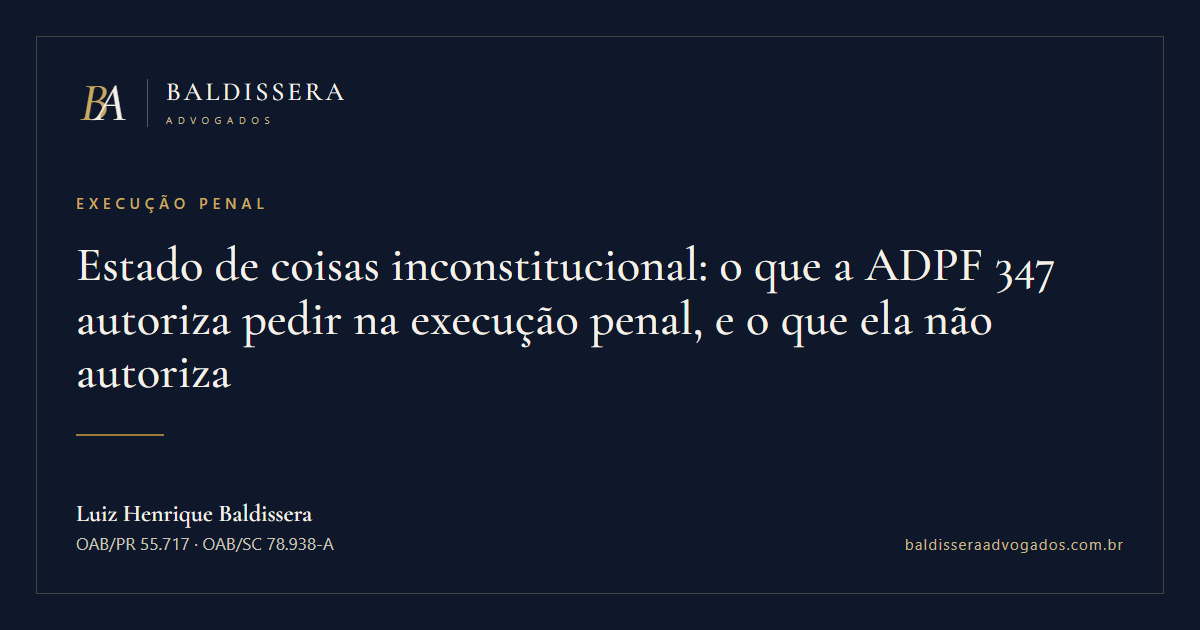
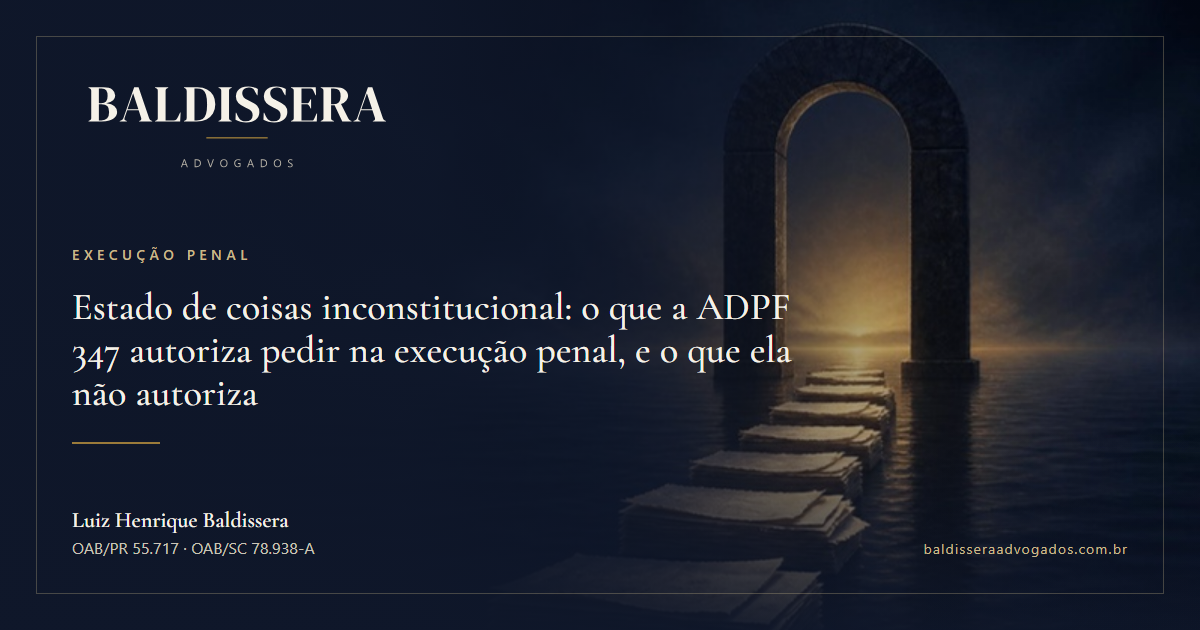
Publicações com ilustração: capa com a marca vetorial e imagem de abertura (ADPF 347)
Publicador ganha os campos imagem/imagem_alt: converte o PNG do diretor de arte
em JPG leve (assets/images/publicacoes), põe a figura abaixo da linha de autoria
e usa a mesma ilustração como fundo das três capas (capa.py v2, véu marinho +
logo oficial em assets/images/marca). Sem ilustração, a capa segue tipográfica.
Primeira publicação com o padrão: ADPF 347 na execução penal.

diff --git a/site_baldissera_advogados/site_baldissera/public/assets/css/style.css b/site_baldissera_advogados/site_baldissera/public/assets/css/style.css
@@ -557,3 +557,23 @@ a { color: inherit; text-decoration: none; }
   .page-hero.hero-split .hero-fig { max-width: 420px; }
   .page-hero.hero-split .hero-fig img { aspect-ratio: 16 / 10; object-position: 70% center; }
 }
+
+/* ============================================
+   IMAGEM DE ABERTURA DA PUBLICAÇÃO (.pub-fig)
+   Gerada pelo diretor de arte; entra abaixo da
+   linha de autoria do hero · 27/09/2026
+   ============================================ */
+.pub-fig { margin: 34px 0 0; }
+.pub-fig img {
+  display: block;
+  width: 100%;
+  height: auto;
+  aspect-ratio: 16 / 9;
+  object-fit: cover;
+  border-radius: 8px;
+  border: 0.5px solid var(--border-medium);
+}
+@media (max-width: 768px) {
+  .pub-fig { margin-top: 24px; }
+  .pub-fig img { aspect-ratio: 16 / 10; object-position: 60% center; }
+}

diff --git a/site_baldissera_advogados/site_baldissera/public/publicacao-adpf-347-na-execucao-penal.html b/site_baldissera_advogados/site_baldissera/public/publicacao-adpf-347-na-execucao-penal.html
@@ -83,6 +83,7 @@
 <span style="color:var(--gold-light);">·</span>
 <span style="font-size:11px;letter-spacing:.04em;color:var(--text-light);">leitura: 4 min</span>
 </div>
+<figure class="pub-fig"><img src="assets/images/publicacoes/publicacao-adpf-347-na-execucao-penal.jpg" alt="Arco de pedra escura sobre água noturna, com luz dourada ao fundo e um caminho de folhas de papel que o atravessa." width="1600" height="900" fetchpriority="high" decoding="async"></figure>
 </div>
 </section>
 

diff --git a/site_baldissera_advogados/site_baldissera/tools/publicador/capa.py b/site_baldissera_advogados/site_baldissera/tools/publicador/capa.py
@@ -1,13 +1,21 @@
 """Capa de publicação com a marca Baldissera Advogados.
 
-Gera, para cada publicação, uma imagem PNG no padrão da casa (marinho, monograma BA,
-título em Cormorant, fio dourado) em três formatos:
+Gera, para cada publicação, uma imagem PNG no padrão da casa em três formatos:
   og       1200x630  — prévia de link (WhatsApp, LinkedIn, Google)
   quadrado 1080x1080 — post de feed
   vertical 1080x1350 — post vertical (Instagram)
 
+Desde 27/09/2026 a capa tem dois modos:
+  * COM ILUSTRAÇÃO (p["_imagem_fonte"] aponta para o PNG gerado pelo diretor de arte):
+    a ilustração ocupa o fundo; sobre ela, um véu marinho recebe a marca vetorial
+    oficial, a área, o título e o rodapé com autor e site.
+  * SEM ILUSTRAÇÃO: layout tipográfico anterior (marinho, marca, título, fio dourado).
+
+A marca vem de public/assets/images/marca/baldissera-advogados-escuro.svg (vetor oficial,
+versão para fundo escuro); se o arquivo faltar, cai no monograma em CSS.
+
 Uso:
-  python capa.py <publicacao.json> [--formatos og,quadrado,vertical] [--saida DIR]
+  python capa.py <publicacao.json> [--formatos og,quadrado,vertical] [--saida DIR] [--imagem ARQ.png]
 Sem --saida grava em public/assets/images/capas/<slug>-<formato>.png
 """
 import argparse, html, json, re, subprocess, sys, tempfile, unicodedata
@@ -15,10 +23,13 @@ from pathlib import Path
 
 AQUI = Path(__file__).resolve().parent
 sys.path.insert(0, str(AQUI))
-import publicar as P  # reaproveita autores, slug e datas
+import publicar as P  # reaproveita autores, slug, datas e a localização da ilustração
 
 EDGE = r"C:\Program Files (x86)\Microsoft\Edge\Application\msedge.exe"
 FORMATOS = {"og": (1200, 630), "quadrado": (1080, 1080), "vertical": (1080, 1350)}
+MARCA_SVG = P.PUB / "assets" / "images" / "marca" / "baldissera-advogados-escuro.svg"
+
+NAVY, GOLD, GOLD_CLARO, IVORY = "#0F172A", "#9B7B3A", "#C9B98A", "#F5F1E8"
 
 
 def nfc(t: str) -> str:
@@ -26,46 +37,98 @@ def nfc(t: str) -> str:
     return unicodedata.normalize("NFC", t or "")
 
 
+def marca_html(largura: int) -> str:
+    """Marca oficial em SVG embutido; sem o arquivo, monograma BA em CSS."""
+    if MARCA_SVG.exists():
+        svg = MARCA_SVG.read_text(encoding="utf-8")
+        svg = re.sub(r"<\?xml[^>]*\?>", "", svg).strip()
+        return f'<div class="marca" style="width:{largura}px">{svg}</div>'
+    return (f'<div class="marca marca-css"><div class="cap"><span class="b">B</span><span class="a">A</span></div>'
+            f'<div class="nome"><p>BALDISSERA</p><span>ADVOGADOS</span></div></div>')
+
+
+def tamanho_titulo(n: int, base: int) -> int:
+    return base if n <= 70 else base - 6 if n <= 100 else base - 12 if n <= 130 else base - 18
+
+
 def html_capa(p: dict, w: int, h: int) -> str:
     a = p["_autor"]
     titulo = html.escape(nfc(P.plano(p["titulo"])))
-    # título grande, reduzido conforme o comprimento e o formato
-    n = len(titulo)
-    base = 64 if w == 1200 else 78
-    tam = base if n <= 70 else base - 8 if n <= 100 else base - 16 if n <= 130 else base - 22
+    area = html.escape(nfc(p["area"]))
+    autor = html.escape(a["nome"]); oab = html.escape(a["oab_card"])
+    og = w == 1200
     vertical = h > w
-    return f"""<!DOCTYPE html><html lang="pt-br"><head><meta charset="utf-8">
-<link href="https://fonts.googleapis.com/css2?family=Cormorant+Garamond:ital,wght@0,500;0,600;1,500&display=block" rel="stylesheet">
-<style>
+    imagem = p.get("_imagem_fonte")
+    margem = 36 if og else 48
+    respiro = 72 if og else 92
+
+    base_css = f"""
 *{{box-sizing:border-box;margin:0;padding:0}}
 html,body{{width:{w}px;height:{h}px;overflow:hidden}}
-body{{background:#0F172A;color:#F5F1E8;font-family:-apple-system,'Segoe UI',Roboto,sans-serif;position:relative}}
-.moldura{{position:absolute;inset:{36 if w == 1200 else 48}px;border:1px solid rgba(201,185,138,.28)}}
-.conteudo{{position:absolute;inset:{76 if w == 1200 else 96}px;display:flex;flex-direction:column;justify-content:space-between}}
-.marca{{display:flex;align-items:center;gap:18px}}
+body{{background:{NAVY};color:{IVORY};font-family:-apple-system,'Segoe UI',Roboto,sans-serif;position:relative}}
+.moldura{{position:absolute;inset:{margem}px;border:1px solid rgba(201,185,138,.30);z-index:3}}
+.conteudo{{position:absolute;inset:{respiro}px;display:flex;flex-direction:column;justify-content:space-between;z-index:4}}
+.marca svg{{display:block;width:100%;height:auto}}
+.marca-css{{display:flex;align-items:center;gap:18px}}
 .cap{{font-family:'Cormorant Garamond',Georgia,serif;font-style:italic;font-weight:500;font-size:54px;line-height:1;letter-spacing:-.08em;display:flex}}
-.cap .b{{color:#C9A962;transform:translateX(4px)}} .cap .a{{color:#F5F1E8;transform:translateX(-6px)}}
+.cap .b{{color:{GOLD_CLARO};transform:translateX(4px)}} .cap .a{{color:{IVORY};transform:translateX(-6px)}}
 .nome{{border-left:1px solid rgba(245,241,232,.3);padding-left:18px}}
 .nome p{{font-family:'Cormorant Garamond',Georgia,serif;font-weight:500;font-size:26px;letter-spacing:.12em;line-height:1}}
-.nome span{{display:block;font-size:10px;letter-spacing:.55em;margin-top:8px;color:#C9B98A}}
+.nome span{{display:block;font-size:10px;letter-spacing:.55em;margin-top:8px;color:{GOLD_CLARO}}}
+.area{{font-size:{14 if og else 15}px;letter-spacing:.32em;text-transform:uppercase;color:{GOLD_CLARO};font-weight:600;margin-bottom:{22 if og else 26}px}}
+h1{{font-family:'Cormorant Garamond',Georgia,serif;font-weight:500;line-height:1.12;letter-spacing:.003em;color:{IVORY}}}
+.fio{{width:88px;height:2px;background:{GOLD};margin-top:{28 if og else 34}px}}
+.pe{{display:flex;justify-content:space-between;align-items:flex-end;font-size:{16 if og else 17}px;color:#C9C5B8}}
+.pe b{{font-family:'Cormorant Garamond',Georgia,serif;font-weight:600;font-size:{22 if og else 24}px;color:{IVORY};display:block;margin-bottom:4px}}
+.site{{font-size:{14 if og else 15}px;letter-spacing:.08em;color:{GOLD_CLARO}}}
+"""
+
+    if imagem:
+        # ---------- modo com ilustração ----------
+        foto = Path(imagem).resolve().as_uri()
+        if og:
+            # ilustração inteira ao fundo; véu marinho forte à esquerda, onde ficam marca e título
+            layout_css = f"""
+.foto{{position:absolute;inset:0;background:url("{foto}") center right/cover no-repeat;z-index:1}}
+.veu{{position:absolute;inset:0;z-index:2;background:
+  linear-gradient(90deg, rgba(15,23,42,.97) 0%, rgba(15,23,42,.94) 34%, rgba(15,23,42,.66) 56%, rgba(15,23,42,.22) 78%, rgba(15,23,42,.08) 100%),
+  linear-gradient(0deg, rgba(15,23,42,.88) 0%, rgba(15,23,42,0) 32%)}}
+.meio{{flex:1;display:flex;flex-direction:column;justify-content:center;padding:14px 0;max-width:{int(w * 0.60)}px}}
+h1{{font-size:{tamanho_titulo(len(titulo), 50)}px}}
+"""
+        else:
+            # ilustração no alto (≈56 %), texto embaixo sobre véu que sobe
+            alto = int(h * (0.50 if vertical else 0.54))
+            layout_css = f"""
+.foto{{position:absolute;left:0;right:0;top:0;height:{alto + 140}px;background:url("{foto}") center/cover no-repeat;z-index:1}}
+.veu{{position:absolute;inset:0;z-index:2;background:
+  linear-gradient(180deg, rgba(15,23,42,.72) 0%, rgba(15,23,42,.10) 22%, rgba(15,23,42,0) 38%, rgba(15,23,42,.55) {int((alto - 40) / h * 100)}%, rgba(15,23,42,.985) {int((alto + 120) / h * 100)}%, {NAVY} 100%)}}
+.meio{{flex:1;display:flex;flex-direction:column;justify-content:flex-end;padding:{alto - respiro + 20}px 0 {36 if vertical else 30}px}}
+h1{{font-size:{tamanho_titulo(len(titulo), 62 if vertical else 58)}px;max-width:{w - 2 * respiro}px}}
+"""
+        camadas = '<div class="foto"></div><div class="veu"></div>'
+    else:
+        # ---------- modo tipográfico (sem ilustração) ----------
+        layout_css = f"""
 .meio{{flex:1;display:flex;flex-direction:column;justify-content:center;padding:{'40px 0' if vertical else '10px 0'}}}
-.area{{font-size:15px;letter-spacing:.32em;text-transform:uppercase;color:#C9A962;font-weight:600;margin-bottom:26px}}
-h1{{font-family:'Cormorant Garamond',Georgia,serif;font-weight:500;font-size:{tam}px;line-height:1.12;letter-spacing:.003em;max-width:{w - 200}px}}
-.fio{{width:88px;height:2px;background:#9B7B3A;margin-top:34px}}
-.pe{{display:flex;justify-content:space-between;align-items:flex-end;font-size:17px;color:#C9C5B8}}
-.pe b{{font-family:'Cormorant Garamond',Georgia,serif;font-weight:600;font-size:24px;color:#F5F1E8;display:block;margin-bottom:4px}}
-.site{{font-size:15px;letter-spacing:.08em;color:#C9B98A}}
-</style></head><body>
+h1{{font-size:{tamanho_titulo(len(titulo), 64 if og else 78) + (0 if og else 4)}px;max-width:{w - 200}px}}
+"""
+        camadas = ""
+
+    largura_marca = 330 if og else 380
+    return f"""<!DOCTYPE html><html lang="pt-br"><head><meta charset="utf-8">
+<link href="https://fonts.googleapis.com/css2?family=Cormorant+Garamond:ital,wght@0,500;0,600;1,500&display=block" rel="stylesheet">
+<style>{base_css}{layout_css}</style></head><body>
+{camadas}
 <div class="moldura"></div>
 <div class="conteudo">
-  <div class="marca"><div class="cap"><span class="b">B</span><span class="a">A</span></div>
-    <div class="nome"><p>BALDISSERA</p><span>ADVOGADOS</span></div></div>
+  {marca_html(largura_marca)}
   <div class="meio">
-    <p class="area">{html.escape(nfc(p['area']))}</p>
+    <p class="area">{area}</p>
     <h1>{titulo}</h1>
     <div class="fio"></div>
   </div>
-  <div class="pe"><div><b>{html.escape(a['nome'])}</b>{html.escape(a['oab_card'])}</div>
+  <div class="pe"><div><b>{autor}</b>{oab}</div>
     <div class="site">baldisseraadvogados.com.br</div></div>
 </div>
 </body></html>"""
@@ -80,8 +143,8 @@ def gerar(p: dict, formatos, saida: Path) -> list:
             src = Path(tmp) / f"{f}.html"
             src.write_text(html_capa(p, w, h), encoding="utf-8")
             out = saida / f"{p['_slug']}-{f}.png"
-            subprocess.run([EDGE, "--headless=new", "--disable-gpu", "--hide-scrollbars",
-                            f"--user-data-dir={Path(tmp) / 'perfil'}", "--virtual-time-budget=6000",
+            subprocess.run([EDGE, "--headless=new", "--disable-gpu", "--hide-scrollbars", "--allow-file-access-from-files",
+                            f"--user-data-dir={Path(tmp) / 'perfil'}", "--virtual-time-budget=8000",
                             f"--window-size={w},{h}", f"--screenshot={out}", src.as_uri()],
                            capture_output=True, timeout=120)
             if not out.exists():
@@ -96,6 +159,7 @@ def main():
     ap.add_argument("--formatos", default="og,quadrado,vertical")
     ap.add_argument("--saida")
     ap.add_argument("--slug", help="endereço já publicado (sem .html), para não gerar um novo")
+    ap.add_argument("--imagem", help="PNG da ilustração (sobrepõe o campo 'imagem' do JSON)")
     a = ap.parse_args()
     p = json.loads(Path(a.json).read_text(encoding="utf-8"))
     if isinstance(p.get("data"), dict) and "pub" in p["data"]:
@@ -104,9 +168,12 @@ def main():
         p = p["pub"]
     if a.slug:
         p["slug"], p["sobrescrever"] = a.slug, True
+    if a.imagem:
+        p["imagem"] = a.imagem
     p = P.preparar(p)
     saida = Path(a.saida) if a.saida else P.PUB / "assets" / "images" / "capas"
-    print(json.dumps({"ok": True, "capas": gerar(p, a.formatos.split(","), saida)}, ensure_ascii=False))
+    print(json.dumps({"ok": True, "ilustracao": str(p.get("_imagem_fonte") or ""),
+                      "capas": gerar(p, a.formatos.split(","), saida)}, ensure_ascii=False))
 
 
 if __name__ == "__main__":

diff --git a/site_baldissera_advogados/site_baldissera/tools/publicador/publicar.py b/site_baldissera_advogados/site_baldissera/tools/publicador/publicar.py
@@ -26,6 +26,12 @@ PUB = SITE / "public"
 REPO = SITE.parents[1]
 BASE = "https://www.baldisseraadvogados.com.br"
 MARCADOR = "<!-- NOVAS-PUBLICACOES"
+# Ilustrações geradas pelo diretor de arte (agente baldissera-diretor-arte) ficam FORA do git,
+# na pasta do painel; o publicador as copia (em JPG leve) para o site na hora de gerar.
+IMAGENS_DIR = Path(r"C:\Users\LuizH\OneDrive\Área de Trabalho\SITE BALDISSERA ADVOGADOS\PAINEL-PUBLICACAO\IMAGENS")
+IMAGENS_SITE = PUB / "assets" / "images" / "publicacoes"
+IMAGEM_LARGURA = 1600
+ALT_PADRAO = "Ilustração editorial da publicação"
 
 MESES = ["Janeiro", "Fevereiro", "Março", "Abril", "Maio", "Junho", "Julho", "Agosto",
          "Setembro", "Outubro", "Novembro", "Dezembro"]
@@ -87,12 +93,36 @@ def verificar(p: dict) -> list:
             erros.append(f"bloco {i + 1}: tipo inválido '{b.get('tipo')}'")
         elif not (b.get("texto") or "").strip():
             erros.append(f"bloco {i + 1}: sem texto")
+    if p.get("imagem") and p["imagem"] is not True and localizar_imagem(p["imagem"]) is None:
+        erros.append(f"ilustração não encontrada: {p['imagem']} (procurei em {IMAGENS_DIR})")
     txt = json.dumps(p, ensure_ascii=False)
     if "{{" in txt:
         erros.append("sobrou marcador {{...}} no texto")
     if re.search(r"<\s*(script|iframe|style)", txt, re.I):
         erros.append("o texto contém código de página (script, iframe ou style); por segurança nada foi publicado")
     return erros
+
+
+def localizar_imagem(ref) -> "Path | None":
+    """Acha o PNG da ilustração: caminho completo, nome na pasta IMAGENS (com ou sem .png)."""
+    if not ref or ref is True:
+        return None
+    for cand in (Path(str(ref)), IMAGENS_DIR / str(ref), IMAGENS_DIR / f"{ref}.png"):
+        if cand.is_file():
+            return cand
+    return None
+
+
+def converter_imagem(fonte: Path, destino: Path) -> Path:
+    """PNG grande do Canva -> JPG leve (1600 px, nitidez leve), no padrão das imagens do site."""
+    from PIL import Image, ImageFilter
+    im = Image.open(fonte).convert("RGB")
+    if im.width > IMAGEM_LARGURA:
+        im = im.resize((IMAGEM_LARGURA, round(im.height * IMAGEM_LARGURA / im.width)), Image.LANCZOS)
+    im = im.filter(ImageFilter.UnsharpMask(radius=1.6, percent=110, threshold=2))
+    destino.parent.mkdir(parents=True, exist_ok=True)
+    im.save(destino, "JPEG", quality=84, optimize=True, progressive=True)
+    return destino
 
 
 def preparar(p: dict) -> dict:
@@ -111,6 +141,15 @@ def preparar(p: dict) -> dict:
     palavras = sum(len(plano(b.get("texto", "")).split()) + len(plano(b.get("titulo", "")).split()) for b in p["corpo"])
     p["_leitura"] = max(1, round(palavras / 250))
     p["_autor"] = AUTORES[p["autor"]]
+    # ilustração: campo "imagem" (caminho ou nome) ou, automaticamente, IMAGENS\<slug>.png;
+    # "imagem": false desliga.
+    if p.get("imagem") is False:
+        fonte = None
+    else:
+        fonte = localizar_imagem(p.get("imagem")) or localizar_imagem(f"{slug}.png")
+    p["_imagem_fonte"] = fonte
+    p["_imagem_web"] = f"assets/images/publicacoes/{slug}.jpg" if fonte else None
+    p["_imagem_alt"] = plano(p.get("imagem_alt") or "") or ALT_PADRAO
     return p
 
 
@@ -164,6 +203,8 @@ def pagina(p: dict) -> str:
 </section>
 """
     bio = f'<p style="font-size:13px;line-height:1.7;color:var(--text-muted);margin:0 0 12px;">{html.escape(a["bio"])}</p>\n' if a["bio"] else ""
+    figura = (f'\n<figure class="pub-fig"><img src="{p["_imagem_web"]}" alt="{attr(p["_imagem_alt"])}" width="1600" height="900" fetchpriority="high" decoding="async"></figure>'
+              if p.get("_imagem_web") else "")
     wa_txt = f"{plano(p['titulo'])}\n\n{plano(p['resumo'])}\n\nAnálise completa:\n{url}\n\n— Baldissera Advogados\nWhatsApp do escritório: https://wa.me/5545991029806"
     desc = attr(p["resumo"])[:300]
 
@@ -217,7 +258,7 @@ def pagina(p: dict) -> str:
 <span style="font-size:11px;letter-spacing:.1em;text-transform:uppercase;">{html.escape(a['titulo'])}</span>
 <span style="color:var(--gold-light);">·</span>
 <span style="font-size:11px;letter-spacing:.04em;color:var(--text-light);">leitura: {p['_leitura']} min</span>
-</div>
+</div>{figura}
 </div>
 </section>
 
@@ -337,12 +378,18 @@ def main():
         destino = Path(a.saida or ".")
         destino.mkdir(parents=True, exist_ok=True)
         arq = destino / f"{p['_slug']}.html"
+        pg = pagina(p)
+        imagem = None
+        if p.get("_imagem_fonte"):
+            # a ilustração ainda não está no ar: fica ao lado da prévia, com caminho local
+            imagem = str(converter_imagem(p["_imagem_fonte"], destino / f"{p['_slug']}.jpg"))
+            pg = pg.replace(f'src="{p["_imagem_web"]}"', f'src="{p["_slug"]}.jpg"')
         # na prévia de teste os caminhos relativos apontam para o site no ar, para a página abrir com estilo e fotos
-        arq.write_text(pagina(p).replace('href="assets/', f'href="{BASE}/assets/').replace('src="assets/', f'src="{BASE}/assets/'),
+        arq.write_text(pg.replace('href="assets/', f'href="{BASE}/assets/').replace('src="assets/', f'src="{BASE}/assets/'),
                        encoding="utf-8", newline="\n")
         import capa
         capas = capa.gerar(p, ["og", "quadrado", "vertical"], destino)
-        print(json.dumps({"ok": True, "no_ar": False, "teste": True, "arquivo": str(arq), "capas": capas}, ensure_ascii=False)); return
+        print(json.dumps({"ok": True, "no_ar": False, "teste": True, "arquivo": str(arq), "imagem": imagem, "capas": capas}, ensure_ascii=False)); return
     if a.acao == "publicar":
         if git("status", "--porcelain", "--untracked-files=no"):
             raise SystemExit("a cópia do site tem alterações não registradas; nada foi feito")
@@ -352,17 +399,21 @@ def main():
     p = preparar(p)
     (PUB / f"{p['_slug']}.html").write_text(pagina(p), encoding="utf-8", newline="\n")
     encaixar(p)
+    extras = []
+    if p.get("_imagem_fonte"):
+        extras.append(str(converter_imagem(p["_imagem_fonte"], PUB / p["_imagem_web"])))
     import capa
     capas = capa.gerar(p, ["og", "quadrado", "vertical"], PUB / "assets" / "images" / "capas")
     url = f"{BASE}/{p['_slug']}"
+    saida = {"ok": True, "no_ar": False, "url": url, "arquivo": p["_slug"] + ".html",
+             "imagem": extras[0] if extras else None, "capas": capas}
     if a.acao == "publicar":
-        git("add", "--", str(PUB / f"{p['_slug']}.html"), str(PUB / "publicacoes.html"), str(PUB / "sitemap.xml"), *capas)
+        git("add", "--", str(PUB / f"{p['_slug']}.html"), str(PUB / "publicacoes.html"), str(PUB / "sitemap.xml"), *extras, *capas)
         git("commit", "-m", f"Publicação: {plano(p.get('titulo_curto') or p['titulo'])} ({p['_autor']['nome']})")
         if a.push:
             git("push", "origin", a.ramo)
-            print(json.dumps({"ok": True, "no_ar": True, "url": url, "arquivo": p["_slug"] + ".html", "capas": capas}, ensure_ascii=False))
-            return
-    print(json.dumps({"ok": True, "no_ar": False, "url": url, "arquivo": p["_slug"] + ".html", "capas": capas}, ensure_ascii=False))
+            saida["no_ar"] = True
+    print(json.dumps(saida, ensure_ascii=False))
 
 
 if __name__ == "__main__":

diff --git a/site_baldissera_advogados/site_baldissera/tools/publicador/FORMATO.md b/site_baldissera_advogados/site_baldissera/tools/publicador/FORMATO.md
@@ -32,6 +32,22 @@ Regras que o publicador aplica sozinho:
 - Endereço da página = `publicacao-` + título curto sem acento; se já existir, ganha `-2`, `-3`.
 - Assinatura no fim = iniciais do autor; bloco "Sobre o autor" com os dados da página Advogados.
 
+## Ilustração (desde 27/09/2026)
+
+Campos opcionais:
+
+```json
+{
+  "imagem": "publicacao-adpf-347-na-execucao-penal.png",
+  "imagem_alt": "Arco de pedra sobre água noturna, com um caminho de folhas de papel que o atravessa."
+}
+```
+
+- `imagem`: nome (ou caminho) do PNG gerado pelo diretor de arte (agente `baldissera-diretor-arte`), guardado em `PAINEL-PUBLICACAO\IMAGENS\`. Se o campo faltar, o publicador procura sozinho `IMAGENS\<endereço>.png`; `"imagem": false` desliga a ilustração.
+- `imagem_alt`: descrição neutra da imagem (acessibilidade e buscadores). Sem ela, entra "Ilustração editorial da publicação".
+- O publicador converte o PNG em JPG leve (1600 px) em `public/assets/images/publicacoes/<endereço>.jpg`, põe a figura abaixo da linha de autoria do hero (`<figure class="pub-fig">`) e usa a mesma ilustração como fundo das capas.
+- Regras da imagem (checklist do agente): sem pessoas, martelo, balança, algemas, grades, brasão, texto; sem alusão a caso ou cliente; nas cores da marca.
+
 ## Capas
 
-A cada publicação o publicador gera três capas com a marca (`capa.py`): `og` 1200x630 (prévia de link, usada no og:image), `quadrado` 1080x1080 e `vertical` 1080x1350 (posts). Ficam em `public/assets/images/capas/<endereço>-<formato>.png`. `capas_existentes.py` gerou as das publicações anteriores a 27/09/2026.
+A cada publicação o publicador gera três capas com a marca (`capa.py`): `og` 1200x630 (prévia de link, usada no og:image), `quadrado` 1080x1080 e `vertical` 1080x1350 (posts). Ficam em `public/assets/images/capas/<endereço>-<formato>.png`. Com ilustração, ela ocupa o fundo da capa sob um véu marinho com a marca vetorial oficial (`public/assets/images/marca/baldissera-advogados-escuro.svg`); sem ilustração, a capa é tipográfica. `capas_existentes.py` gerou as das publicações anteriores a 27/09/2026.
